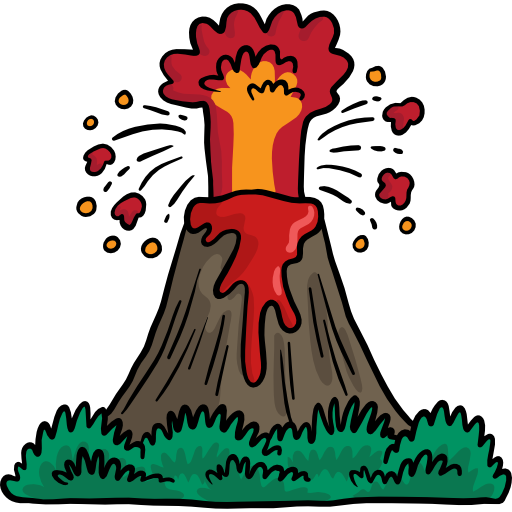
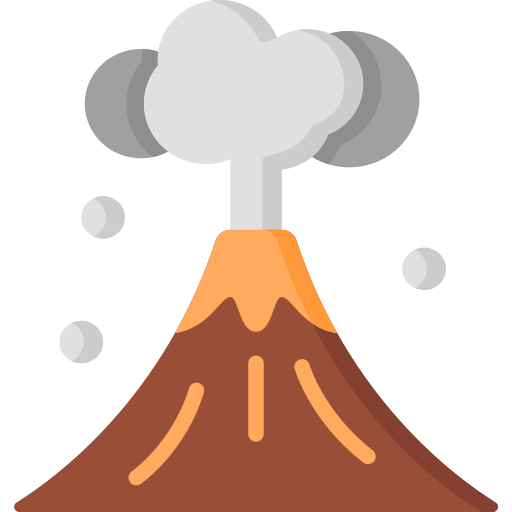
Evento Volcan y Estilos
Añadida la catástrofe del Volcán, implementada la catástrofe del hielo y mejorado el diseño

diff --git a/Pagina Web/script.js b/Pagina Web/script.js
@@ -1,25 +1,29 @@
-var mapa = L.map('map').setView([0, 0], 2);
+var map = L.map('map').setView([0, 0], 2);
 
 L.tileLayer('https://{s}.tile.openstreetmap.org/{z}/{x}/{y}.png', {
     maxZoom: 19,
     attribution: '© OpenStreetMap'
-}).addTo(mapa);
+}).addTo(map);
 
 var icons = {
-    incendio: L.icon({
+    wildfire: L.icon({
         iconUrl: 'img/incendio.png',
         iconSize: [32, 32]
     }),
-    tormenta: L.icon({
+    storm: L.icon({
         iconUrl: 'img/tormenta-electrica.png',
+        iconSize: [32, 32]
+    }),
+    earthquake: L.icon({
+        iconUrl: 'img/terremoto.png',
+        iconSize: [32, 32]
+    }),
+    ice: L.icon({
+        iconUrl: 'img/hielo.png',
         iconSize: [32, 32]
     }),
     volcan: L.icon({
         iconUrl: 'img/volcan.png',
-        iconSize: [32, 32]
-    }),
-    iceberg: L.icon({
-        iconUrl: 'img/hielo.png',
         iconSize: [32, 32]
     })
 };
@@ -27,45 +31,47 @@ var icons = {
 document.getElementById('date-filter-form').addEventListener('submit', async function (event) {
     event.preventDefault();
 
-    const fechaInicio = document.getElementById('start-date').value;
-    const fechaFin = document.getElementById('end-date').value;
+    const startDate = document.getElementById('start-date').value;
+    const endDate = document.getElementById('end-date').value;
 
-    if (startDate && fechaFin) {
-        await fetchEvents(fechaInicio, fechaFin);
+    if (startDate && endDate) {
+        await fetchEvents(startDate, endDate);
     }
 });
 
-async function fetchEvents(fechaInicio, fechaFin) {
+async function fetchEvents(startDate, endDate) {
+    try {
+        const response = await fetch(`https://eonet.gsfc.nasa.gov/api/v3/events?status=open&start=${startDate}&end=${endDate}`);
+        const data = await response.json();
+        console.log(data);
 
-        const solicitudjson = await fetch(`https://eonet.gsfc.nasa.gov/api/v3/events?status=open&start=${fechaInicio}&end=${fechaFin}`);
-        const info = await solicitudjson.json();
-
-        mapa.eachLayer((layer) => {
+        map.eachLayer((layer) => {
             if (layer instanceof L.Marker) {
-                mapa.removeLayer(layer);
+                map.removeLayer(layer);
             }
         });
 
-        info.events.forEach(event => {
+        data.events.forEach(event => {
             let iconType;
 
             if (event.categories[0].title === 'Wildfires') {
-                iconType = icons.incendio;
+                iconType = icons.wildfire;
             } else if (event.categories[0].title === 'Severe Storms') {
-                iconType = icons.tormenta;
+                iconType = icons.storm;
+            } else if (event.categories[0].title === 'Earthquakes') {
+                iconType = icons.earthquake;
             } else if (event.categories[0].title === 'Sea and Lake Ice') {
-                iconType = icons.iceberg;
+                iconType = icons.ice;
             } else if (event.categories[0].title === 'Volcanoes') {
                 iconType = icons.volcan;
-            }      
-            else {
+            } else {
                 iconType = null;
             }
 
             if (iconType && event.geometry.length > 0) {
                 let coords = event.geometry[0].coordinates;
 
-                let marker = L.marker([coords[1], coords[0]], { icon: iconType }).addTo(mapa);
+                let marker = L.marker([coords[1], coords[0]], { icon: iconType }).addTo(map);
 
                 marker.bindPopup(`
                     <strong>${event.title}</strong><br>
@@ -83,7 +89,9 @@ async function fetchEvents(fechaInicio, fechaFin) {
                 });
             }
         });
-
+    } catch (error) {
+        console.error('Error al obtener los eventos:', error);
+    }
 }
 
 fetchEvents(); 

diff --git a/Pagina Web/styles.css b/Pagina Web/styles.css
@@ -20,6 +20,12 @@ h1 {
     font-size: 24px;
 }
 
+h2 {
+    display: flex;
+    justify-content: center;
+    padding-bottom: 10px;
+}
+
 span {
     display: flex;
     justify-content: center;
@@ -28,21 +34,22 @@ span {
 }
 
 .filters {
+    position: relative;
+    left: 80px;
     margin-bottom: 20px;
     background-color: #fff;
     padding: 15px;
-    border-radius: 8px;
+    border-radius: 10px;
     box-shadow: 0 0 10px rgba(0, 0, 0, 0.1);
-    width: 100%;
+    width: 90%;
 }
 
-.filtro-eventos{
-    display: flex;
-}
 form {
     display: flex;
     justify-content: space-between;
     align-items: center;
+    padding-top: 7px;
+    padding-bottom: 10px;
 }
 
 form label {
@@ -68,29 +75,39 @@ button:hover {
     background-color: #357ab8;
 }
 
+.filtro-eventos{
+    display: flex;
+    justify-content: center;
+    padding-top: 5px;
+}
+
+.filtro-eventos button {
+    margin-right: 15px;
+}
+
 .map-container {
-    width: 100%;
-    height: calc(100vh - 200px);
-    margin: 0 auto;
+    position: relative;
+    left: 40px;
+    width: 95%;
 }
 
 #map {
     width: 100%;
-    height: 100%;
-    border-radius: 8px;
-}
-
-body, html {
-    height: 100%;
-    margin: 0;
+    height: 500px;
+    border-radius: 10px;
 }
 
 footer {
     background-color: #2c3e50;
     color: white;
     text-align: center;
-    padding: 10px;
-    position: absolute;
+    padding: 20px;
+    position: fixed;
     bottom: 0;
     width: 100%;
+}
+
+footer a {
+    text-decoration: none;
+    color: lightgray;
 }

diff --git a/Pagina Web/index.html b/Pagina Web/index.html
@@ -25,18 +25,18 @@
 
             <button type="submit">Aplicar Filtro</button>
         </form>
-    <div class="filtro-eventos">
-        <button>Volcanes</button>
-        <button>Tormentas</button>
-        <button>Icebergs</button>
-        <button>Incendios</button>
-    </div>    
+        <div class="filtro-eventos">
+            <button>Volcanes</button>
+            <button>Tormentas</button>
+            <button>Terremotos</button>
+        </div>    
     </section>
     <section class="map-container">
         <div id="map"></div>
     </section>
     <footer>
-        <p></p>
+        <p>Pagina Oficial de la API: <a href="https://eonet.gsfc.nasa.gov/"> EONET</a></p>
+        <p>Documentacion Oficial de la API: <a href="https://eonet.gsfc.nasa.gov/docs/v3"> EONET</a></p>
     </footer>
     <script src="https://unpkg.com/leaflet@1.7.1/dist/leaflet.js"></script>
     <script src="script.js"></script>
